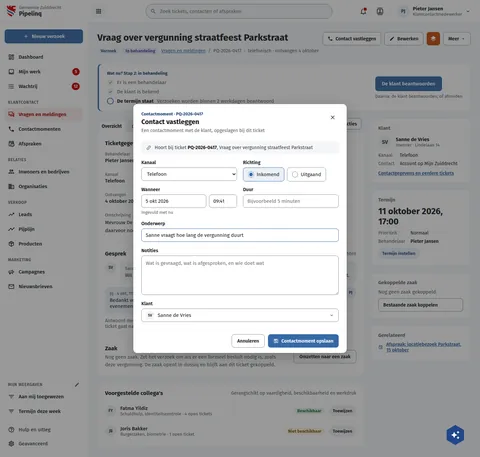
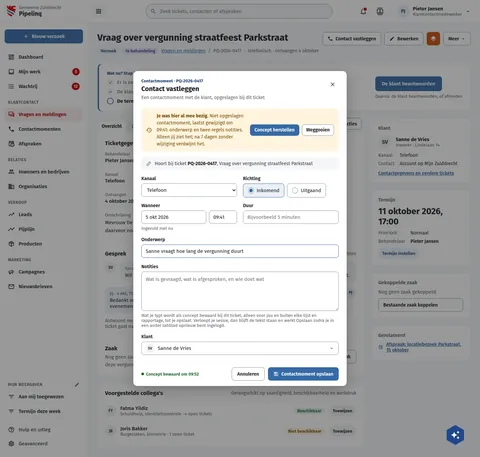
feat(screens): PqTicketContactLoggen offers the kept draft after the browser closed
Row cm-keep-draft (contact-moments-keep-draft, REQ-CMD2-001 and 002): the dialog opens with a strip offering the unsaved contact moment from earlier, with the time it was last changed, Concept herstellen and Weggooien; under the notes a caption says what you type is kept as a draft for you alone, outside every list and report, and that an expired session keeps the text; the footer shows when the draft was last kept. The capability note lists the row; the English catalogue carries the new strings.

Assisted-by: ClaudeCode:claude-fable-5-1

Changed region(s): [[0.25, 0.1532, 0.75, 0.6127], [0.25, 0.6433, 0.75, 0.8578]]

diff --git a/preview/screens/boards/PqTicketContactLoggen.html b/preview/screens/boards/PqTicketContactLoggen.html
@@ -331,6 +331,11 @@ a{color:var(--sc-primary, #3669a5)}a:hover{color:var(--sc-primary-deep, #234a78)
         <button type="button" aria-label="Sluiten" style="width: 36px; height: 36px; flex: none; border: 0; border-radius: 18px; background: transparent; color: var(--sc-work-text, #3d4047); display: flex; align-items: center; justify-content: center"><svg width="20" height="20" viewbox="0 0 24 24" fill="currentColor"><path d="M19,6.41L17.59,5L12,10.59L6.41,5L5,6.41L10.59,12L5,17.59L6.41,19L12,13.41L17.59,19L19,17.59L13.41,12L19,6.41Z"></path></svg></button>
       </div>
       <div style="padding: 18px 24px 20px; display: flex; flex-direction: column; gap: 18px">
+        <section aria-label="Niet opgeslagen contactmoment" style="display: flex; flex-wrap: wrap; gap: 10px 14px; align-items: center; padding: 12px 14px; border-radius: 10px; background: #fff4de; color: #7a4f00; font-size: 14px">
+          <svg width="18" height="18" viewbox="0 0 24 24" fill="currentColor" aria-hidden="true" style="flex: none"><path d="M13,3A9,9 0 0,0 4,12H1L4.89,15.89L4.96,16.03L9,12H6A7,7 0 0,1 13,5A7,7 0 0,1 20,12A7,7 0 0,1 13,19C11.07,19 9.32,18.21 8.06,16.94L6.64,18.36C8.27,20 10.5,21 13,21A9,9 0 0,0 22,12A9,9 0 0,0 13,3M12,8V13L16.28,15.54L17,14.33L13.5,12.25V8H12Z"></path></svg>
+          <span style="flex: 1 1 260px; line-height: 1.5"><strong>Je was hier al mee bezig.</strong> Niet opgeslagen contactmoment, laatst gewijzigd om 09:41: onderwerp en twee regels notities. Alleen jij ziet het; na 7 dagen zonder wijziging verdwijnt het.</span>
+          <span style="display: flex; gap: 8px"><button type="button" style="height: 34px; padding: 0 14px; border: 0; border-radius: 8px; background: var(--sc-primary, #3669a5); color: #ffffff; font: 600 14px var(--sc-font, 'Fira Sans'), sans-serif; white-space: nowrap">Concept herstellen</button><button type="button" style="height: 34px; padding: 0 12px; border: 1px solid var(--sc-work-field, #828a95); border-radius: 8px; background: #ffffff; font: 600 14px var(--sc-font, 'Fira Sans'), sans-serif; color: var(--sc-work-ink, #1b1c1d); white-space: nowrap">Weggooien</button></span>
+        </section>
         <div style="display: flex; gap: 10px; align-items: center; padding: 10px 14px; border-radius: 8px; background: var(--sc-work-ground, #f5f6f8); font-size: 14px; color: var(--sc-work-text, #3d4047)"><span style="color: var(--sc-work-muted, #5e6168); display: flex"><svg width="16" height="16" viewbox="0 0 24 24" fill="currentColor"><path d="M10.59,13.41C11,13.8 11,14.44 10.59,14.83C10.2,15.22 9.56,15.22 9.17,14.83C7.22,12.88 7.22,9.71 9.17,7.76V7.76L12.71,4.22C14.66,2.27 17.83,2.27 19.78,4.22C21.73,6.17 21.73,9.34 19.78,11.29L18.29,12.78C18.3,11.96 18.17,11.14 17.89,10.36L18.36,9.88C19.54,8.71 19.54,6.81 18.36,5.64C17.19,4.46 15.29,4.46 14.12,5.64L10.59,9.17C9.41,10.34 9.41,12.24 10.59,13.41M13.41,9.17C13.8,8.78 14.44,8.78 14.83,9.17C16.78,11.12 16.78,14.29 14.83,16.24V16.24L11.29,19.78C9.34,21.73 6.17,21.73 4.22,19.78C2.27,17.83 2.27,14.66 4.22,12.71L5.71,11.22C5.7,12.04 5.83,12.86 6.11,13.65L5.64,14.12C4.46,15.29 4.46,17.19 5.64,18.36C6.81,19.54 8.71,19.54 9.88,18.36L13.41,14.83C14.59,13.66 14.59,11.76 13.41,10.59C13,10.2 13,9.56 13.41,9.17Z"></path></svg></span><span>Hoort bij ticket <strong style="color: var(--sc-work-ink, #1b1c1d)">PQ-2026-0417</strong>, Vraag over vergunning straatfeest Parkstraat</span></div>
         <div style="display: grid; grid-template-columns: repeat(auto-fit, minmax(220px, 1fr)); gap: 16px 18px">
           <div style="display: flex; flex-direction: column; gap: 6px; min-width: 0">
@@ -357,7 +362,7 @@ a{color:var(--sc-primary, #3669a5)}a:hover{color:var(--sc-primary-deep, #234a78)
         </div>
         <div style="display: flex; flex-direction: column; gap: 6px; min-width: 0">
           <label for="pq-log-notes" style="font-size: 14px; font-weight: 600">Notities</label>
-          <textarea id="pq-log-notes" rows="4" placeholder="Wat is gevraagd, wat is afgesproken, en wie doet wat" style="width: 100%; box-sizing: border-box; padding: 10px 12px; border: 1px solid #8a8d93; border-radius: 8px; font: 400 15px/1.6 var(--sc-font, 'Fira Sans'), sans-serif; color: var(--sc-work-ink, #1b1c1d); resize: vertical"></textarea>
+          <textarea id="pq-log-notes" rows="4" placeholder="Wat is gevraagd, wat is afgesproken, en wie doet wat" style="width: 100%; box-sizing: border-box; padding: 10px 12px; border: 1px solid #8a8d93; border-radius: 8px; font: 400 15px/1.6 var(--sc-font, 'Fira Sans'), sans-serif; color: var(--sc-work-ink, #1b1c1d); resize: vertical"></textarea><span style="font-size: 13px; color: var(--sc-work-muted, #5e6168)">Wat je typt wordt als concept bewaard bij dit ticket, alleen voor jou en buiten elke lijst en rapportage, tot je opslaat. Verloopt je sessie, dan blijft de tekst staan en werkt Opslaan zodra je in een ander tabblad opnieuw bent ingelogd.</span>
         </div>
         <div style="display: flex; flex-direction: column; gap: 6px; min-width: 0">
           <label for="pq-log-customer" style="font-size: 14px; font-weight: 600">Klant</label>
@@ -365,6 +370,7 @@ a{color:var(--sc-primary, #3669a5)}a:hover{color:var(--sc-primary-deep, #234a78)
         </div>
       </div>
       <div style="display: flex; flex-wrap: wrap; justify-content: flex-end; gap: 10px; padding: 16px 24px; border-top: 1px solid var(--sc-work-soft, #eef0f3)">
+        <span style="margin-right: auto; align-self: center; display: inline-flex; align-items: center; gap: 6px; font-size: 13px; color: #1e6b2a; font-weight: 600"><span style="width: 8px; height: 8px; border-radius: 4px; background: #1e6b2a"></span>Concept bewaard om 09:52</span>
         <button type="button" style="height: 40px; padding: 0 16px; border: 1px solid var(--sc-work-field, #828a95); border-radius: 8px; background: #ffffff; font: 600 14px var(--sc-font, 'Fira Sans'), sans-serif; color: var(--sc-work-ink, #1b1c1d)">Annuleren</button>
         <button type="button" style="display: flex; align-items: center; gap: 8px; height: 40px; padding: 0 16px; border: 0; border-radius: 8px; background: var(--sc-primary, #3669a5); color: #ffffff; font: 600 14px var(--sc-font, 'Fira Sans'), sans-serif"><svg width="16" height="16" viewbox="0 0 24 24" fill="currentColor"><path d="M17 3H5C3.89 3 3 3.9 3 5V19C3 20.1 3.89 21 5 21H19C20.1 21 21 20.1 21 19V7L17 3M19 19H5V5H16.17L19 7.83V19M12 12C10.34 12 9 13.34 9 15S10.34 18 12 18 15 16.66 15 15 13.66 12 12 12M6 6H15V10H6V6Z"></path></svg>Contactmoment opslaan</button>
       </div>

diff --git a/screens-src/zuiddrecht/PqTicketContactLoggen.dc.html b/screens-src/zuiddrecht/PqTicketContactLoggen.dc.html
@@ -147,6 +147,11 @@ a{color:#3669a5}a:hover{color:#234a78}
         <button type="button" aria-label="Sluiten" style="width: 36px; height: 36px; flex: none; border: 0; border-radius: 18px; background: transparent; color: #3d4047; display: flex; align-items: center; justify-content: center"><svg width="20" height="20" viewBox="0 0 24 24" fill="currentColor"><path d="M19,6.41L17.59,5L12,10.59L6.41,5L5,6.41L10.59,12L5,17.59L6.41,19L12,13.41L17.59,19L19,17.59L13.41,12L19,6.41Z"></path></svg></button>
       </div>
       <div style="padding: 18px 24px 20px; display: flex; flex-direction: column; gap: 18px">
+        <section aria-label="Niet opgeslagen contactmoment" style="display: flex; flex-wrap: wrap; gap: 10px 14px; align-items: center; padding: 12px 14px; border-radius: 10px; background: #fff4de; color: #7a4f00; font-size: 14px">
+          <svg width="18" height="18" viewBox="0 0 24 24" fill="currentColor" aria-hidden="true" style="flex: none"><path d="M13,3A9,9 0 0,0 4,12H1L4.89,15.89L4.96,16.03L9,12H6A7,7 0 0,1 13,5A7,7 0 0,1 20,12A7,7 0 0,1 13,19C11.07,19 9.32,18.21 8.06,16.94L6.64,18.36C8.27,20 10.5,21 13,21A9,9 0 0,0 22,12A9,9 0 0,0 13,3M12,8V13L16.28,15.54L17,14.33L13.5,12.25V8H12Z"></path></svg>
+          <span style="flex: 1 1 260px; line-height: 1.5"><strong>Je was hier al mee bezig.</strong> Niet opgeslagen contactmoment, laatst gewijzigd om 09:41: onderwerp en twee regels notities. Alleen jij ziet het; na 7 dagen zonder wijziging verdwijnt het.</span>
+          <span style="display: flex; gap: 8px"><button type="button" style="height: 34px; padding: 0 14px; border: 0; border-radius: 8px; background: #3669a5; color: #ffffff; font: 600 14px 'Fira Sans', sans-serif; white-space: nowrap">Concept herstellen</button><button type="button" style="height: 34px; padding: 0 12px; border: 1px solid #828a95; border-radius: 8px; background: #ffffff; font: 600 14px 'Fira Sans', sans-serif; color: #1b1c1d; white-space: nowrap">Weggooien</button></span>
+        </section>
         <div style="display: flex; gap: 10px; align-items: center; padding: 10px 14px; border-radius: 8px; background: #f5f6f8; font-size: 14px; color: #3d4047"><span style="color: #5e6168; display: flex"><svg width="16" height="16" viewBox="0 0 24 24" fill="currentColor"><path d="M10.59,13.41C11,13.8 11,14.44 10.59,14.83C10.2,15.22 9.56,15.22 9.17,14.83C7.22,12.88 7.22,9.71 9.17,7.76V7.76L12.71,4.22C14.66,2.27 17.83,2.27 19.78,4.22C21.73,6.17 21.73,9.34 19.78,11.29L18.29,12.78C18.3,11.96 18.17,11.14 17.89,10.36L18.36,9.88C19.54,8.71 19.54,6.81 18.36,5.64C17.19,4.46 15.29,4.46 14.12,5.64L10.59,9.17C9.41,10.34 9.41,12.24 10.59,13.41M13.41,9.17C13.8,8.78 14.44,8.78 14.83,9.17C16.78,11.12 16.78,14.29 14.83,16.24V16.24L11.29,19.78C9.34,21.73 6.17,21.73 4.22,19.78C2.27,17.83 2.27,14.66 4.22,12.71L5.71,11.22C5.7,12.04 5.83,12.86 6.11,13.65L5.64,14.12C4.46,15.29 4.46,17.19 5.64,18.36C6.81,19.54 8.71,19.54 9.88,18.36L13.41,14.83C14.59,13.66 14.59,11.76 13.41,10.59C13,10.2 13,9.56 13.41,9.17Z"></path></svg></span><span>Hoort bij ticket <strong style="color: #1b1c1d">PQ-2026-0417</strong>, Vraag over vergunning straatfeest Parkstraat</span></div>
         <div style="display: grid; grid-template-columns: repeat(auto-fit, minmax(220px, 1fr)); gap: 16px 18px">
           <div style="display: flex; flex-direction: column; gap: 6px; min-width: 0">
@@ -173,7 +178,7 @@ a{color:#3669a5}a:hover{color:#234a78}
         </div>
         <div style="display: flex; flex-direction: column; gap: 6px; min-width: 0">
           <label for="pq-log-notes" style="font-size: 14px; font-weight: 600">Notities</label>
-          <textarea id="pq-log-notes" rows="4" placeholder="Wat is gevraagd, wat is afgesproken, en wie doet wat" style="width: 100%; box-sizing: border-box; padding: 10px 12px; border: 1px solid #8a8d93; border-radius: 8px; font: 400 15px/1.6 'Fira Sans', sans-serif; color: #1b1c1d; resize: vertical"></textarea>
+          <textarea id="pq-log-notes" rows="4" placeholder="Wat is gevraagd, wat is afgesproken, en wie doet wat" style="width: 100%; box-sizing: border-box; padding: 10px 12px; border: 1px solid #8a8d93; border-radius: 8px; font: 400 15px/1.6 'Fira Sans', sans-serif; color: #1b1c1d; resize: vertical"></textarea><span style="font-size: 13px; color: #5e6168">Wat je typt wordt als concept bewaard bij dit ticket, alleen voor jou en buiten elke lijst en rapportage, tot je opslaat. Verloopt je sessie, dan blijft de tekst staan en werkt Opslaan zodra je in een ander tabblad opnieuw bent ingelogd.</span>
         </div>
         <div style="display: flex; flex-direction: column; gap: 6px; min-width: 0">
           <label for="pq-log-customer" style="font-size: 14px; font-weight: 600">Klant</label>
@@ -181,6 +186,7 @@ a{color:#3669a5}a:hover{color:#234a78}
         </div>
       </div>
       <div style="display: flex; flex-wrap: wrap; justify-content: flex-end; gap: 10px; padding: 16px 24px; border-top: 1px solid #eef0f3">
+        <span style="margin-right: auto; align-self: center; display: inline-flex; align-items: center; gap: 6px; font-size: 13px; color: #1e6b2a; font-weight: 600"><span style="width: 8px; height: 8px; border-radius: 4px; background: #1e6b2a"></span>Concept bewaard om 09:52</span>
         <button type="button" style="height: 40px; padding: 0 16px; border: 1px solid #828a95; border-radius: 8px; background: #ffffff; font: 600 14px 'Fira Sans', sans-serif; color: #1b1c1d">Annuleren</button>
         <button type="button" style="display: flex; align-items: center; gap: 8px; height: 40px; padding: 0 16px; border: 0; border-radius: 8px; background: #3669a5; color: #ffffff; font: 600 14px 'Fira Sans', sans-serif"><svg width="16" height="16" viewBox="0 0 24 24" fill="currentColor"><path d="M17 3H5C3.89 3 3 3.9 3 5V19C3 20.1 3.89 21 5 21H19C20.1 21 21 20.1 21 19V7L17 3M19 19H5V5H16.17L19 7.83V19M12 12C10.34 12 9 13.34 9 15S10.34 18 12 18 15 16.66 15 15 13.66 12 12 12M6 6H15V10H6V6Z"></path></svg>Contactmoment opslaan</button>
       </div>
